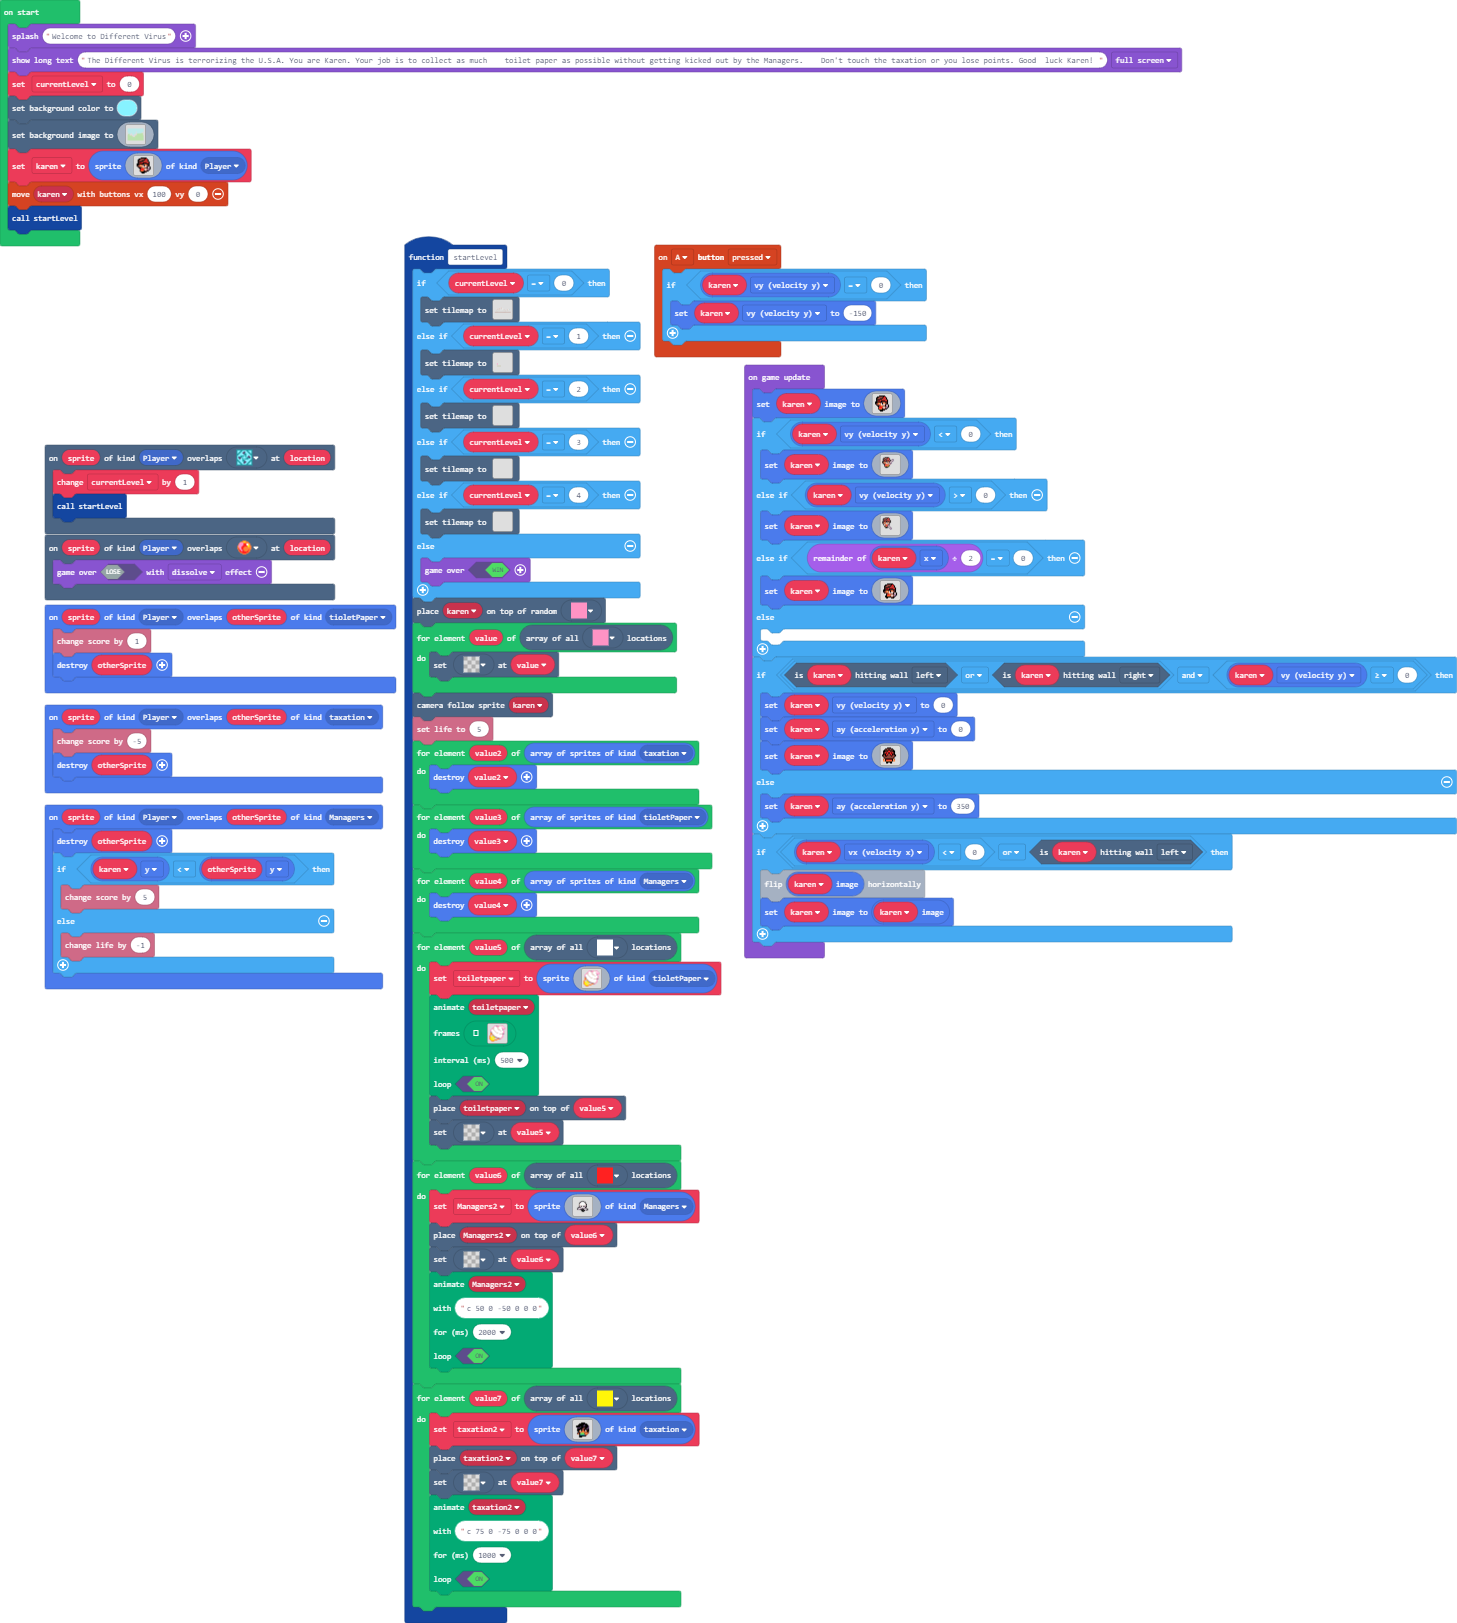
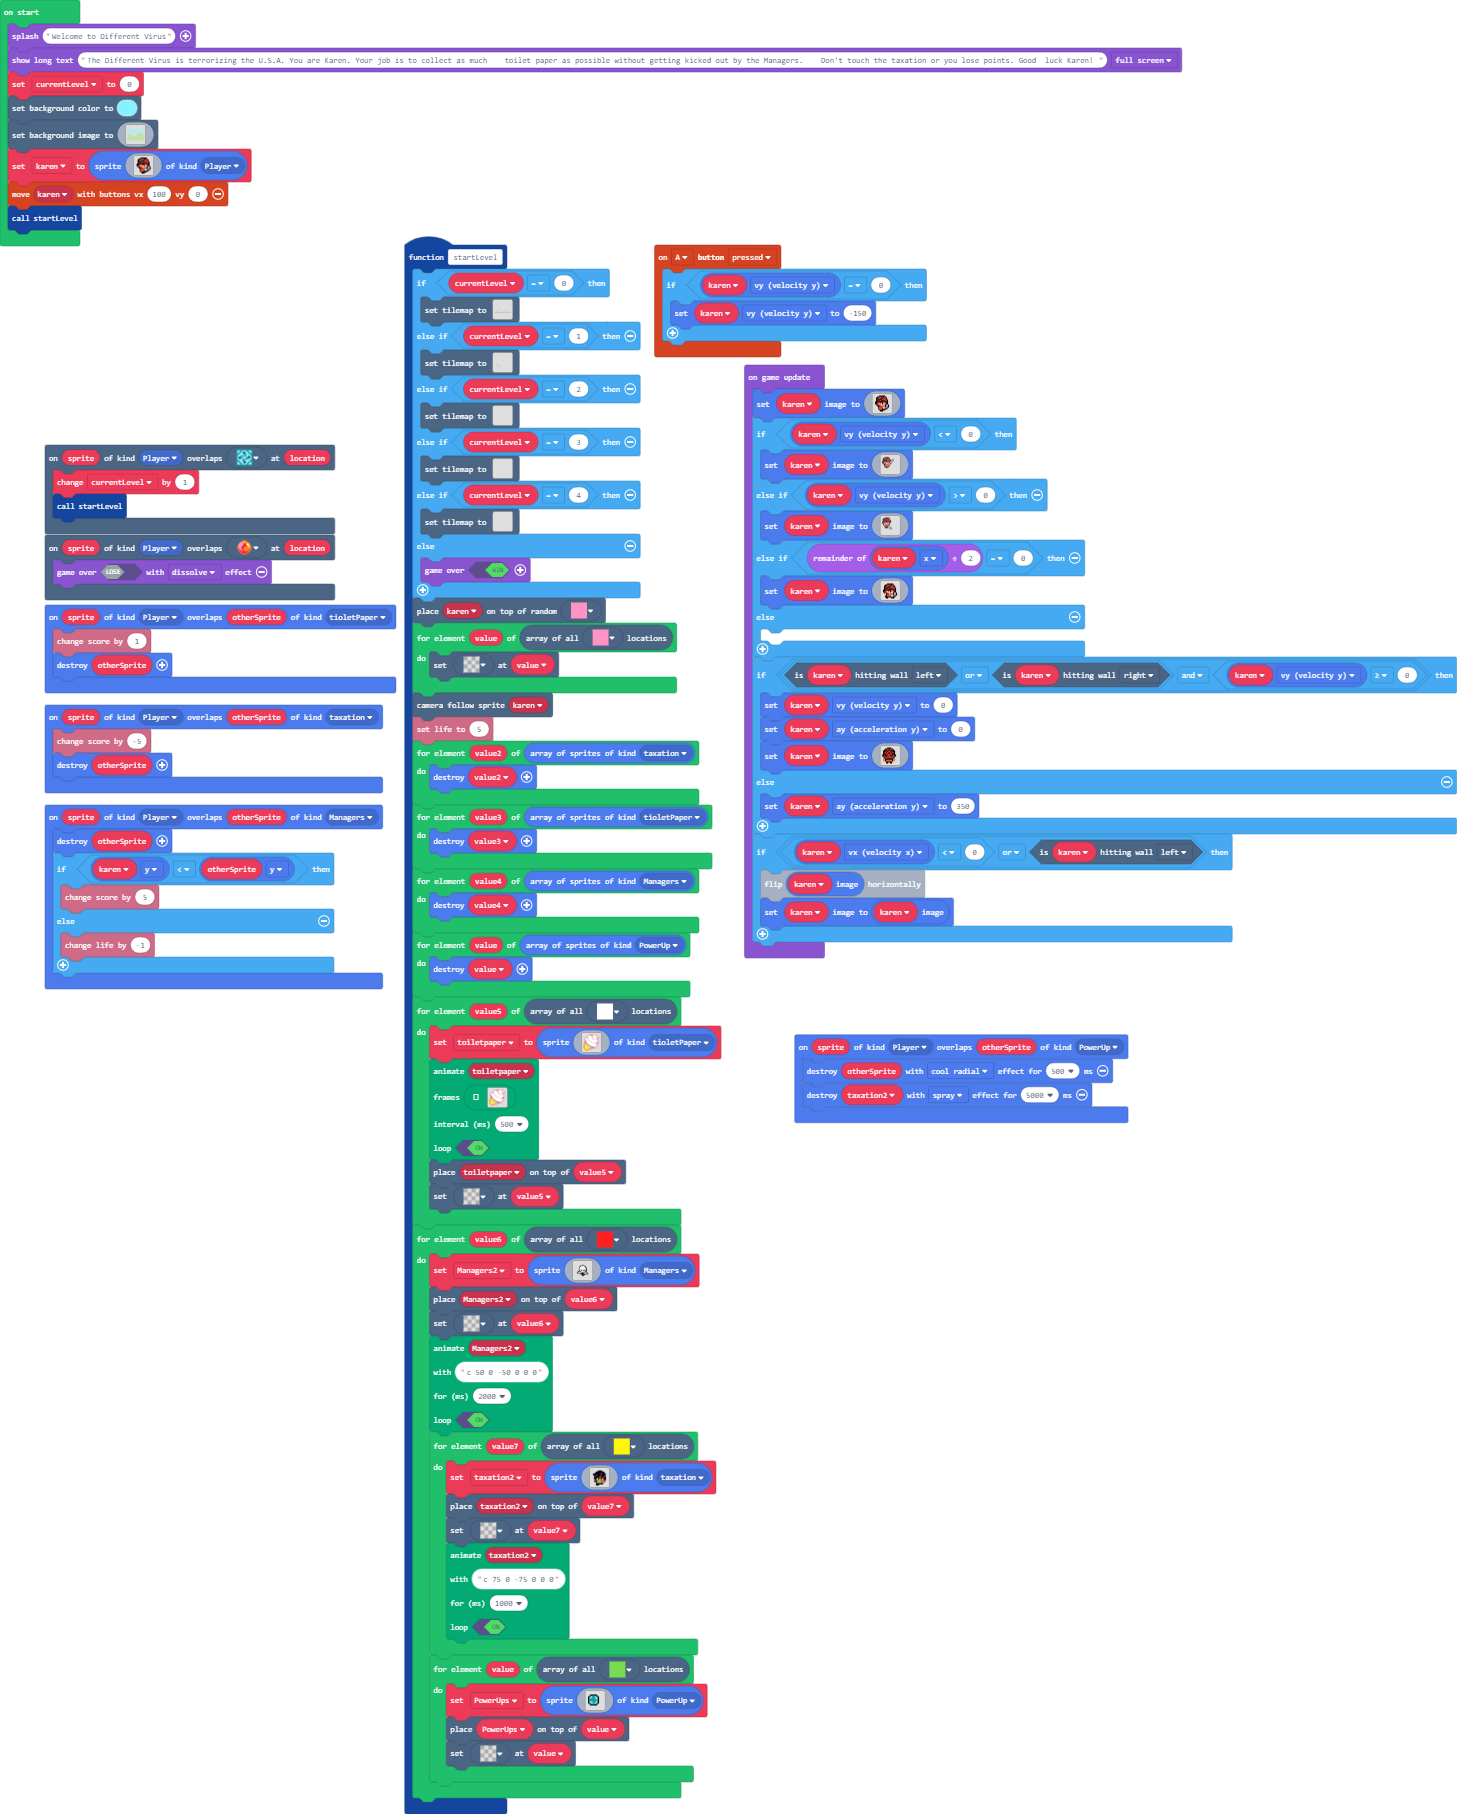
Update main.blocks, main.ts

diff --git a/main.ts b/main.ts
@@ -2,6 +2,7 @@ namespace SpriteKind {
     export const tioletPaper = SpriteKind.create()
     export const Managers = SpriteKind.create()
     export const taxation = SpriteKind.create()
+    export const PowerUp = SpriteKind.create()
 }
 namespace myTiles {
     //% blockIdentity=images._tile
@@ -99,6 +100,25 @@ namespace myTiles {
 5 5 5 5 5 5 5 5 5 5 5 5 5 5 5 5 
 5 5 5 5 5 5 5 5 5 5 5 5 5 5 5 5 
 `
+    //% blockIdentity=images._tile
+    export const tile5 = img`
+7 7 7 7 7 7 7 7 7 7 7 7 7 7 7 7 
+7 7 7 7 7 7 7 7 7 7 7 7 7 7 7 7 
+7 7 7 7 7 7 7 7 7 7 7 7 7 7 7 7 
+7 7 7 7 7 7 7 7 7 7 7 7 7 7 7 7 
+7 7 7 7 7 7 7 7 7 7 7 7 7 7 7 7 
+7 7 7 7 7 7 7 7 7 7 7 7 7 7 7 7 
+7 7 7 7 7 7 7 7 7 7 7 7 7 7 7 7 
+7 7 7 7 7 7 7 7 7 7 7 7 7 7 7 7 
+7 7 7 7 7 7 7 7 7 7 7 7 7 7 7 7 
+7 7 7 7 7 7 7 7 7 7 7 7 7 7 7 7 
+7 7 7 7 7 7 7 7 7 7 7 7 7 7 7 7 
+7 7 7 7 7 7 7 7 7 7 7 7 7 7 7 7 
+7 7 7 7 7 7 7 7 7 7 7 7 7 7 7 7 
+7 7 7 7 7 7 7 7 7 7 7 7 7 7 7 7 
+7 7 7 7 7 7 7 7 7 7 7 7 7 7 7 7 
+7 7 7 7 7 7 7 7 7 7 7 7 7 7 7 7 
+`
 }
 sprites.onOverlap(SpriteKind.Player, SpriteKind.tioletPaper, function (sprite, otherSprite) {
     info.changeScoreBy(1)
@@ -111,6 +131,10 @@ sprites.onOverlap(SpriteKind.Player, SpriteKind.Managers, function (sprite, othe
     } else {
         info.changeLifeBy(-1)
     }
+})
+sprites.onOverlap(SpriteKind.Player, SpriteKind.PowerUp, function (sprite, otherSprite) {
+    otherSprite.destroy(effects.coolRadial, 500)
+    taxation2.destroy(effects.spray, 5000)
 })
 controller.A.onEvent(ControllerButtonEvent.Pressed, function () {
     if (karen.vy == 0) {
@@ -131,7 +155,7 @@ scene.onOverlapTile(SpriteKind.Player, sprites.dungeon.collectibleInsignia, func
 function startLevel () {
     if (currentLevel == 0) {
         tiles.setTilemap(tiles.createTilemap(
-            hex`3200140000000000000000000000000000000000000000000000000000000000000000000000000000000000000000000000000000000000000000000000000000000000000000000000000000000000000000000000000000000000000000000000000000000000000000000000000000000000000000000000000000000000000000000000000000000000000000000000000000000000000000000000000000000000000000000000000000000000000000000000000000000000000000000000000000000000000000000000000000000000000000000000000000000000000000000000000000000000000000000000000000000000000000000000000000000000000000000000000000000200000000000000000000000000000000000000000000000000000000000000000000000000000000000000000000000000020000000300000200000000000000000000000000000000000000000000000000000000000000000000000000000000000002000505050505050202000000000000000000000000000000000000000000000000000000000200000000000000000003000200000000000000020200000000000000000000000000000000000000000000000000000000020000000000000505050505050000000000000002020000000000000000000000000000000000000000000000000000000002000003000000000000000000000000000000000202000000000000000000000000000000000200000600000000000000000505050505050000000000000200000000000000020200000003000000000000000000000000020005050000000000000000000000000000000000040000020000000000000005050505050500000000000000000003000002000000000000000000000001000000000200050505050505000000000000000000000000000000000000020005050505050500000000000000000000000000000000020000000000000000000000000000000000000000000003000002000000000000000000000000000000000000050505050505000000000000000000000000000000000000000000050505050500000000000000000000000000000000000000000000000000000000000000000000000000000000000000000000000000000000000000000000000000000000000000000000000000000000000000000000000000000000000000000000000000000000000000000000000000000000000000000000000000000000000000000000000000000000000000000000000000000000000000000000000000000000000000000707070707070707070707070707070707070707070707070707070707070707070707070707070707070707070707070707`,
+            hex`3200140000000000000000000000000000000000000000000000000000000000000000000000000000000000000000000000000000000000000000000000000000000000000000000000000000000000000000000000000000000000000000000000000000000000000000000000000000000000000000000000000000000000000000000000000000000000000000000000000000000000000000000000000000000000000000000000000000000000000000000000000000000000000000000000000000000000000000000000000000000000000000000000000000000000000000000000000000000000000000000000000000000000000000000000000000000000000000000000000000000200000000000000000000000000000000000000000000000000000000000000000000000000000000000000000000000000020000000300000200000000000000000000000000000000000000000000000000000000000000000000000000000000000002000505050505050202000000000000000000000000000000000000000000000000000000000200000000000000000003000200000000000000020200000000000000000000000000000000000000000000000000000000020000000000000505050505050000000000000002020000000000000000000000000000000000000000000000000000000002000003000000000000000000000000000000000202000000000000000000000000000000000200000600000000000000000505050505050000000000000200000000000000020200000003000000000000000000000000020005050000000000000000000000000000000000040008020000000000000005050505050500000000000000000003000002000000000000000000000001000000000200050505050505000000000000000000000000000000000000020005050505050500000000000000000000000000000000020000000000000000000000000000000000000000000003000002000000000000000000000000000000000000050505050505000000000000000000000000000000000000000000050505050500000000000000000000000000000000000000000000000000000000000000000000000000000000000000000000000000000000000000000000000000000000000000000000000000000000000000000000000000000000000000000000000000000000000000000000000000000000000000000000000000000000000000000000000000000000000000000000000000000000000000000000000000000000000000000707070707070707070707070707070707070707070707070707070707070707070707070707070707070707070707070707`,
             img`
 . . . . . . . . . . . . . . . . . . . . . . . . . . . . . . . . . . . . . . . . . . . . . . . . . . 
 . . . . . . . . . . . . . . . . . . . . . . . . . . . . . . . . . . . . . . . . . . . . . . . . . . 
@@ -154,7 +178,7 @@ function startLevel () {
 . . . . . . . . . . . . . . . . . . . . . . . . . . . . . . . . . . . . . . . . . . . . . . . . . . 
 . . . . . . . . . . . . . . . . . . . . . . . . . . . . . . . . . . . . . . . . . . . . . . . . . . 
 `,
-            [myTiles.tile0,myTiles.tile1,myTiles.tile2,myTiles.tile3,myTiles.tile4,sprites.castle.tilePath2,sprites.dungeon.collectibleInsignia,sprites.dungeon.collectibleRedCrystal],
+            [myTiles.tile0,myTiles.tile1,myTiles.tile2,myTiles.tile3,myTiles.tile4,sprites.castle.tilePath2,sprites.dungeon.collectibleInsignia,sprites.dungeon.collectibleRedCrystal,myTiles.tile5],
             TileScale.Sixteen
         ))
     } else if (currentLevel == 1) {
@@ -178,7 +202,7 @@ function startLevel () {
 . . . . . . . . . . . . . . . . 
 . . . . . . . . . . . . . . . . 
 `,
-            [myTiles.tile0,myTiles.tile1,myTiles.tile2,myTiles.tile3,myTiles.tile4,sprites.castle.tilePath2],
+            [myTiles.tile0,myTiles.tile1,myTiles.tile2,myTiles.tile3,myTiles.tile4,sprites.castle.tilePath2,myTiles.tile5],
             TileScale.Sixteen
         ))
     } else if (currentLevel == 2) {
@@ -202,7 +226,7 @@ function startLevel () {
 . . . . . . . . . . . . . . . . 
 . . . . . . . . . . . . . . . . 
 `,
-            [myTiles.tile0,myTiles.tile1,myTiles.tile2,myTiles.tile3,myTiles.tile4,sprites.dungeon.collectibleInsignia],
+            [myTiles.tile0,myTiles.tile1,myTiles.tile2,myTiles.tile3,myTiles.tile4,sprites.dungeon.collectibleInsignia,myTiles.tile5],
             TileScale.Sixteen
         ))
     } else if (currentLevel == 3) {
@@ -226,7 +250,7 @@ function startLevel () {
 . . . . . . . . . . . . . . . . 
 . . . . . . . . . . . . . . . . 
 `,
-            [myTiles.tile0,myTiles.tile1,myTiles.tile2,myTiles.tile3,myTiles.tile4],
+            [myTiles.tile0,myTiles.tile1,myTiles.tile2,myTiles.tile3,myTiles.tile4,myTiles.tile5],
             TileScale.Sixteen
         ))
     } else if (currentLevel == 4) {
@@ -250,7 +274,7 @@ function startLevel () {
 . . . . . . . . . . . . . . . . 
 . . . . . . . . . . . . . . . . 
 `,
-            [myTiles.tile0,myTiles.tile1,myTiles.tile2,myTiles.tile3,myTiles.tile4],
+            [myTiles.tile0,myTiles.tile1,myTiles.tile2,myTiles.tile3,myTiles.tile4,myTiles.tile5],
             TileScale.Sixteen
         ))
     } else {
@@ -270,6 +294,9 @@ function startLevel () {
     }
     for (let value4 of sprites.allOfKind(SpriteKind.Managers)) {
         value4.destroy()
+    }
+    for (let value of sprites.allOfKind(SpriteKind.PowerUp)) {
+        value.destroy()
     }
     for (let value5 of tiles.getTilesByType(myTiles.tile2)) {
         toiletpaper = sprites.create(img`
@@ -351,9 +378,8 @@ function startLevel () {
         2000,
         true
         )
-    }
-    for (let value7 of tiles.getTilesByType(myTiles.tile4)) {
-        taxation2 = sprites.create(img`
+        for (let value7 of tiles.getTilesByType(myTiles.tile4)) {
+            taxation2 = sprites.create(img`
 . . . . . . . . . . . . . 
 . . . . . f f f f . . . . 
 . . . f f f f f f f f . . 
@@ -371,19 +397,43 @@ f f f f c f f f f f f f c
 . . . f f f f f f f . . . 
 . . . f f f . . . . . . . 
 `, SpriteKind.taxation)
-        tiles.placeOnTile(taxation2, value7)
-        tiles.setTileAt(value7, myTiles.tile0)
-        animation.runMovementAnimation(
-        taxation2,
-        "c 75 0 -75 0 0 0",
-        1000,
-        true
-        )
+            tiles.placeOnTile(taxation2, value7)
+            tiles.setTileAt(value7, myTiles.tile0)
+            animation.runMovementAnimation(
+            taxation2,
+            "c 75 0 -75 0 0 0",
+            1000,
+            true
+            )
+        }
+        for (let value of tiles.getTilesByType(myTiles.tile5)) {
+            PowerUps = sprites.create(img`
+. . . . . . . . . . . . . . . . 
+. . . . . . . . . . . . . . . . 
+. . . f f f f f f f . . . . . . 
+. . f 6 6 6 6 6 6 6 f . . . . . 
+. f 6 6 1 6 6 6 9 6 6 f . . . . 
+. f 6 1 6 6 6 6 9 9 6 f . . . . 
+. f 6 6 6 6 6 6 6 9 6 f . . . . 
+. f 6 6 6 6 6 6 6 6 6 f . . . . 
+. f 6 6 6 6 6 6 6 6 6 f . . . . 
+. f 6 9 9 6 6 6 6 1 6 f . . . . 
+. f 6 6 9 9 6 6 1 6 6 f . . . . 
+. . f 6 6 6 6 6 6 6 f . . . . . 
+. . . f f f f f f f . . . . . . 
+. . . . . . . . . . . . . . . . 
+. . . . . . . . . . . . . . . . 
+. . . . . . . . . . . . . . . . 
+`, SpriteKind.PowerUp)
+            tiles.placeOnTile(PowerUps, value)
+            tiles.setTileAt(value, myTiles.tile0)
+        }
     }
 }
-let taxation2: Sprite = null
+let PowerUps: Sprite = null
 let Managers2: Sprite = null
 let toiletpaper: Sprite = null
+let taxation2: Sprite = null
 let karen: Sprite = null
 let currentLevel = 0
 game.splash("Welcome to Different Virus")
